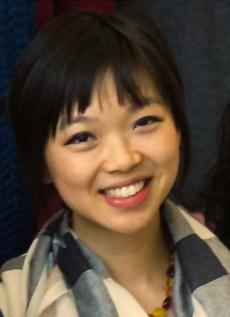
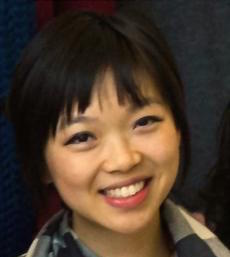
Continuing to test out and add new information for vision lunch site

diff --git a/vision/events.js b/vision/events.js
@@ -34,14 +34,58 @@ var events = [
 		"author":"Kathryn Bonnen",
 		"type":"Talk",
 		"date":"2018/05/09",
-		"info":"PhD Student, Huk Lab, Stanford",
+		"info":"PhD Student, Huk Lab, UT Austin",
 		"image":"bonnen.jpeg",
 		"abstract":"Much is known about how retinal stimulation is processed through later stages of the visual system. But understanding the meaning of these cortical activity patterns for making inferences about the dynamic three-dimensional environment is a distinct computational problem. We show that treating patterns of retinal stimulation as proxies for the visual world oversimplifies the problem of how neural activity can be read out to infer the properties of the environment. This is because the projection of the environment onto the two retinas fundamentally shapes the information available in the tuning and responses of cortical neurons. In the case of three-dimensional (3D) motion this environment-to-retinae perspective predicts non-canonical shapes of neuronal tuning functions. These non-canonical shapes are consistent with existing electrophysiological recordings in middle temporal area (MT) and explain unintuitive misperceptions of 3D motion in existing psychophysical data."	
 	},
 	{
 		"date":"2018/05/23",
 		"type":"Open"
-	}
+	},
+	{
+		"title":"Dissonant Representations of Visual Space in Prefrontal Cortex during Eye Movements",
+		"author":"Xiaomo Chen",
+		"type":"Talk",
+		"date":"2018/05/16",
+		"info":"Postdoc, Moore Lab, Stanford",
+		"image":"xiaomo.jpeg",
+		"abstract":"TBA"	
+	},
+	{
+		"title":"TBA",
+		"author":"Guillaume Riesen",
+		"type":"Talk",
+		"date":"2018/05/29",
+		"info":"PhD Student, Gardner Lab, Stanford",
+		"image":"riesen_guillaume.jpg",
+		"abstract":"TBA"	
+	},
+	{
+		"title":"Image reconstruction by domain-transform manifold learning",
+		"link":"https://www.nature.com/articles/nature25988",
+		"author":"Elias Wang",
+		"type":"Journal Club",
+		"date":"2018/06/06",
+		"abstract":"Image reconstruction is essential for imaging applications across the physical and life sciences, including optical and radar systems, magnetic resonance imaging, X-ray computed tomography, positron emission tomography, ultrasound imaging and radio astronomy1,2,3. During image acquisition, the sensor encodes an intermediate representation of an object in the sensor domain, which is subsequently reconstructed into an image by an inversion of the encoding function. Image reconstruction is challenging because analytic knowledge of the exact inverse transform may not exist a priori, especially in the presence of sensor non-idealities and noise. Thus, the standard reconstruction approach involves approximating the inverse function with multiple ad hoc stages in a signal processing chain4,5, the composition of which depends on the details of each acquisition strategy, and often requires expert parameter tuning to optimize reconstruction performance. Here we present a unified framework for image reconstruction—automated transform by manifold approximation (AUTOMAP)—which recasts image reconstruction as a data-driven supervised learning task that allows a mapping between the sensor and the image domain to emerge from an appropriate corpus of training data. We implement AUTOMAP with a deep neural network and exhibit its flexibility in learning reconstruction transforms for various magnetic resonance imaging acquisition strategies, using the same network architecture and hyperparameters. We further demonstrate that manifold learning during training results in sparse representations of domain transforms along low-dimensional data manifolds, and observe superior immunity to noise and a reduction in reconstruction artefacts compared with conventional handcrafted reconstruction methods. In addition to improving the reconstruction performance of existing acquisition methodologies, we anticipate that AUTOMAP and other learned reconstruction approaches will accelerate the development of new acquisition strategies across imaging modalities."	
+	},
+	{
+		"title":"TBA",
+		"author":"Hsin-hung Li",
+		"type":"Talk",
+		"date":"2018/06/13",
+		"info":"PhD Student, Moore Lab, Stanford",
+		"image":"default.jpg",
+		"abstract":"TBA"	
+	},
+	{
+		"title":"Set summary perception, outlier pop out, and categorization: a common underlying computation?",
+		"author":"Shaul Hochstein",
+		"type":"Talk",
+		"date":"2018/06/20",
+		"info":"Professor, Hebrew University of Jerusalem",
+		"image":"hochstein.jpg",
+		"abstract":"TBA"	
+	},
 ];
 
 window.onload = function() {
@@ -77,9 +121,12 @@ window.onload = function() {
 function buildEvent(e,eDate) {
 	let info = createInfo(e,eDate);
 	let temp_div = document.createElement('div');
-	if (e.type!='Open') {
+	if (e.type=='Talk') {
 		let modal_id = createModal(e,eDate);
 		temp_div.onclick = function() {openModal(modal_id);}
+		temp_div.setAttribute("class", "info");
+	} else if (e.type=='Journal Club') {
+		temp_div.onclick = function() {window.open(e.link,"_self");}
 		temp_div.setAttribute("class", "info");
 	} else {
 		temp_div.setAttribute("class", "info-open");
@@ -107,6 +154,19 @@ function createInfo(event,eDate) {
 		str = str.concat('<br>');
 		str = str.concat('<h5>'+eDate.toDateString()+'</h5>');
 		str = str.concat('<h5>Open date: email <a href="mailto:danbirman@gmail.com">Dan</a> or <a href="mailto:mareikegrotheer@gmail.com">Mareike</a> if you are interested in presenting.</h5>')
+		str = str.concat('</div>');
+	} else if (event.type=="Journal Club") {
+		str = str.concat('<div class="info_left"></div>')
+		// Add title
+		str = str.concat('<div class="info_right">')
+		str = str.concat('<h4>Journal club: '+event.title+'</h4>');
+		if (event.time!=undefined) {
+			str = str.concat('<h5>'+eDate.toDateString()+' - '+event.time+'</h5>');
+		} else {
+			str = str.concat('<h5>'+eDate.toDateString()+' - 9:30 AM</h5>');
+		}
+		str = str.concat('<br>')
+		str = str.concat('<h5>Journal club led by '+event.author+'</h5>')
 		str = str.concat('</div>');
 	} else {
 		// Create left div (img)
@@ -151,7 +211,7 @@ function createModal(event,eDate) {
 		str = str.concat('<h5>'+eDate.toDateString()+' - 9:30 AM</h5>');
 	}
 	str = str.concat('<h5>Jordan Hall (Building 420), Room 419</h5>')
-	str = str.concat('<h1>'+event.author+'</h1>')
+	str = str.concat('<h2>'+event.author+'</h2>')
 	str = str.concat('<h5>Presenter Affiliation: '+event.info+'</h5>')
 	str = str.concat('<h2>Abstract</h2>')
 	str = str.concat('<p>'+event.abstract+'</p>')

diff --git a/vision/index.html b/vision/index.html
@@ -64,7 +64,7 @@
     border: 1px solid;
     border-color: #b6b1a9;
   }
-  
+
   .info {
     background-color: #F9F6EF;
     margin:auto;
@@ -102,13 +102,16 @@
   }
 
   .info_img {
+    object-fit: cover;
     height:14vh;
+    width:14vh;
     position: relative;
     margin: auto;
     top: 0;
     right: 0;
     bottom: 0;
     left: 0;
+    border-radius:7vh;
   }
 
   .restrict80 {
@@ -151,6 +154,10 @@
       background-color: rgba(0,0,0,0.4); /* Black w/ opacity */
   }
 
+  .modal h1 {
+    color:#8c1515;
+  }
+
   /* Modal Content/Box */
   .modal-content {
     /*background-color: #F5F5F5;*/
@@ -190,11 +197,12 @@
   }
 
   .modal-img {
-    display:inline-block;
+    /*display:inline-block;*/
     width:30vmin;
     float:right;
-    margin:2vw;
+    margin:1vw;
   }
+
   
   .close {
     background: #606061;
@@ -268,6 +276,14 @@
 
   <h2>Past Events</h2>
   <div id="past">
+  </div>
+
+  <br>
+  <hr>
+  <br>
+
+  <h2>Archive</h2>
+  <div id="archive">
   </div>
 </div>
 
